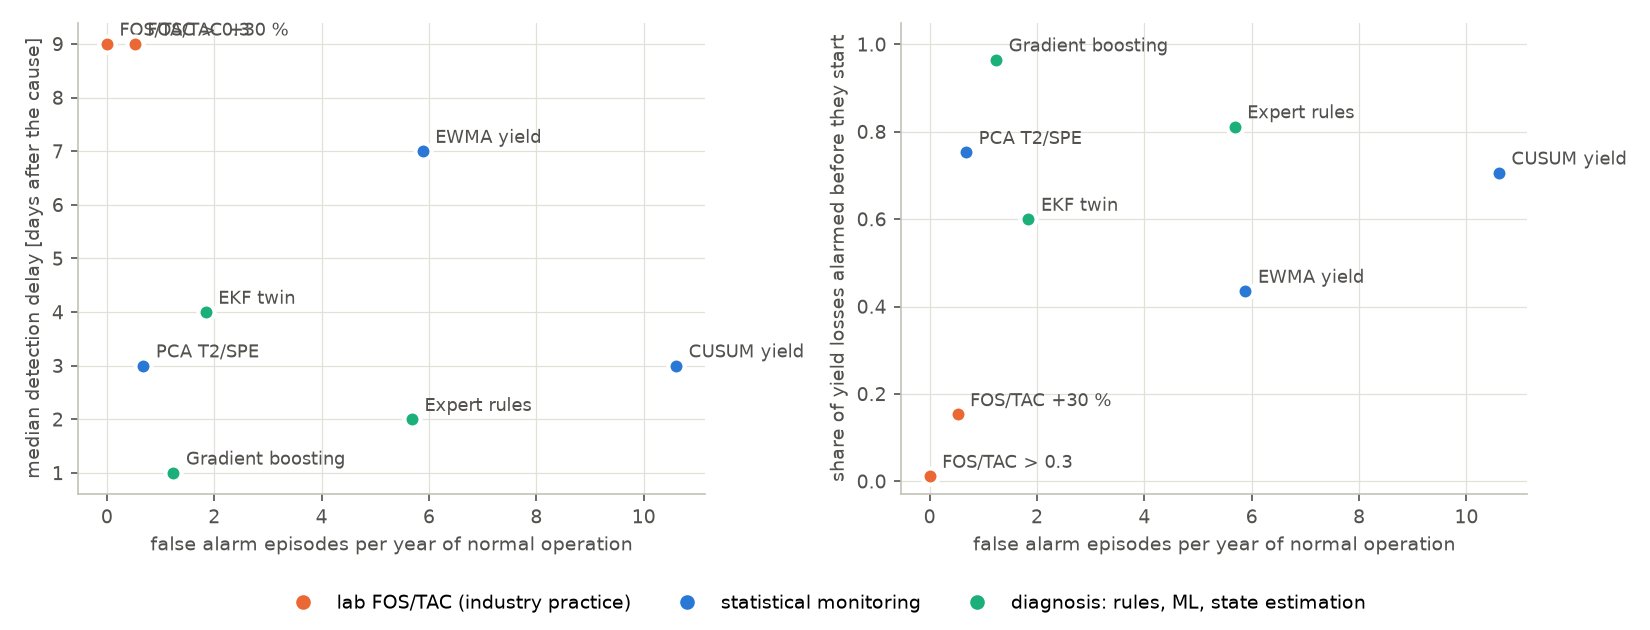
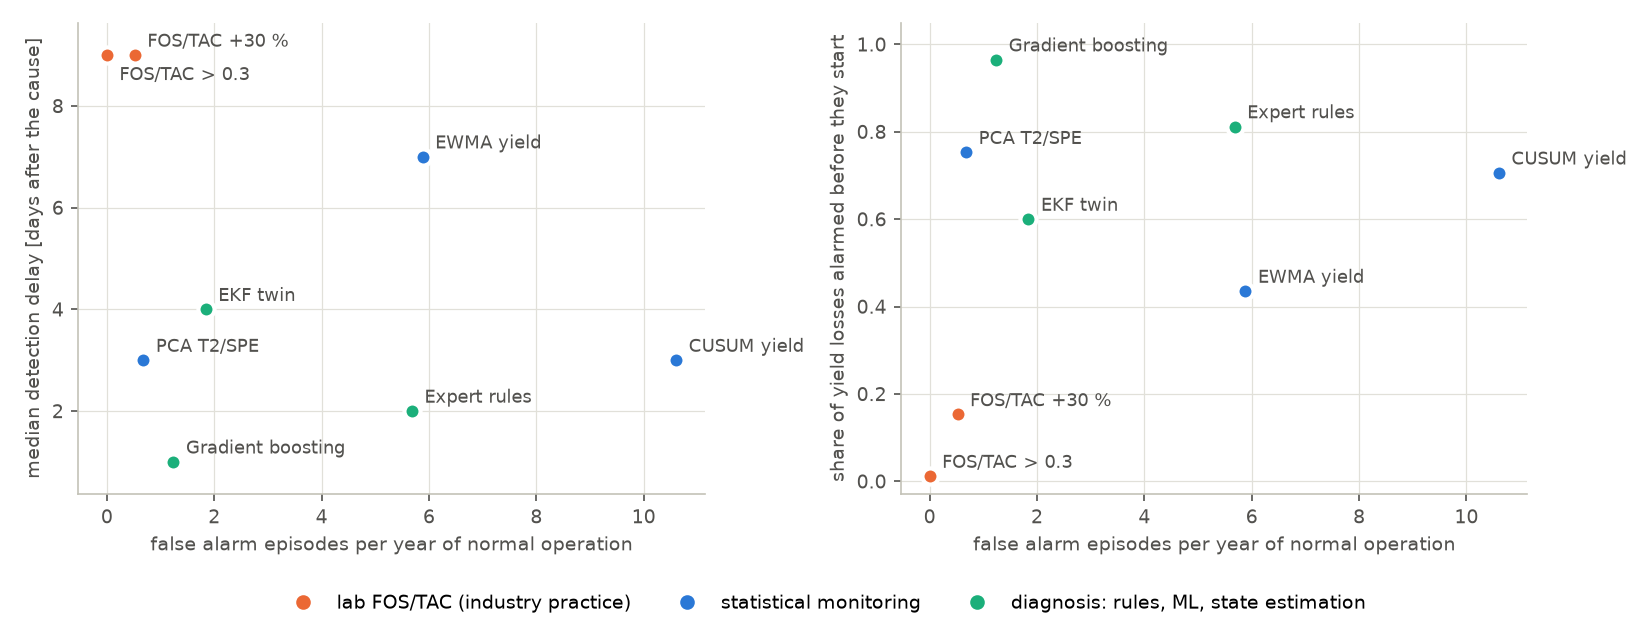
Charts: separate the FOS/TAC labels, readable class names in the matrices
The two lab FOS/TAC rules sit at the same height next to each other; their labels now go to different sides of the points (README figure and both dashboard scatter plots). Confusion matrix: vertical class names; per-class heatmap: vertical names on a phone. Layout only; data unchanged.

diff --git a/docs/index.html b/docs/index.html
@@ -272,18 +272,21 @@ function comparison() {
       cols.map(([k, , f]) => `<td class="n${r[k] != null && r[k] === best[k] ? " best" : ""}">${f(r[k])}</td>`).join("") + "</tr>";
   });
   document.getElementById("mc-table").innerHTML = h;
-  const pts = (yk, title, ylab, yfmt) => {
+  // the two lab FOS/TAC rules sit next to each other near x = 0: their labels go to the right, apart in height
+  const pts = (yk, title, ylab, yfmt, pos = {}) => {
     const T = D.methods.map(m => { const r = R.find(x => x.method === m);
-      return {x: [r.false_alarms_per_year], y: [r[yk]], mode: "markers+text", text: [m], textposition: "top center",
+      return {x: [r.false_alarms_per_year], y: [r[yk]], mode: "markers+text", text: [m], textposition: pos[m] || "top center",
         textfont: {size: 10, color: css("--ink2")}, marker: {size: 11, color: famColor(m), line: {color: css("--surface"), width: 2}},
         hovertemplate: m + "<br>%{x:.1f} false alarms/year<br>" + ylab + ": %{y" + yfmt + "}<extra></extra>", showlegend: false}; });
     return [T, layoutBase({margin: {l: 56, r: 16, t: 30, b: 50}, title: {text: title, font: {size: 13, color: css("--ink")}, x: 0.02},
       xaxis: axis({title: {text: "false alarms per year", font: {size: 12}}, rangemode: "tozero"}),
       yaxis: axis({title: {text: ylab, font: {size: 12}}})})];
   };
-  Plotly.react("mc-plot", ...pts("median_delay_d", "Faster (low) vs fewer false alarms (left)", "median delay [days]", ":.0f"), CFG());
-  const [T2, L2] = pts("before_yield_loss", "Alarmed before yield loss (high)", "share before yield loss", ":.0%");
-  L2.yaxis.tickformat = ".0%"; L2.yaxis.range = [-0.05, 1.08];
+  Plotly.react("mc-plot", ...pts("median_delay_d", "Faster (low) vs fewer false alarms (left)", "median delay [days]", ":.0f",
+    {"FOS/TAC > 0.3": "bottom right", "FOS/TAC +30 %": "top right"}), CFG());
+  const [T2, L2] = pts("before_yield_loss", "Alarmed before yield loss (high)", "share before yield loss", ":.0%",
+    {"FOS/TAC > 0.3": "bottom right", "FOS/TAC +30 %": "top right"});
+  L2.yaxis.tickformat = ".0%"; L2.yaxis.range = [-0.12, 1.08];
   Plotly.react("mc-plot2", T2, L2, CFG());
 }
 
@@ -301,8 +304,9 @@ function byClass() {
     colorscale: lowGood ? [[0, css("--seq1")], [1, css("--seq0")]] : [[0, css("--seq0")], [1, css("--seq1")]],
     showscale: false, xgap: 2, ygap: 2, hovertemplate: "%{y} / %{x}: %{text}<extra></extra>",
     zmin: metric === "lead" ? -20 : 0, zmax: metric === "lead" ? 20 : (metric === "delay" ? 30 : 100)}];
-  Plotly.react("bc-plot", T, layoutBase({margin: {l: 130, r: 10, t: 10, b: 110},
-    xaxis: {tickangle: -30, tickfont: {size: 11}}, yaxis: {autorange: "reversed", tickfont: {size: 11}},
+  const narrow = window.innerWidth < 600;  // on a phone the angled class names ran into each other
+  Plotly.react("bc-plot", T, layoutBase({margin: {l: 130, r: 10, t: 10, b: narrow ? 170 : 110},
+    xaxis: {tickangle: narrow ? -90 : -30, tickfont: {size: narrow ? 10 : 11}}, yaxis: {autorange: "reversed", tickfont: {size: 11}},
     font: {family: "system-ui, sans-serif", color: css("--ink2"), size: 11}}), CFG());
   document.getElementById("bc-note").textContent = "20 test upsets per type. Lead time and before-loss only for upsets that went on to lose yield; sensor faults never do.";
 }
@@ -316,7 +320,7 @@ function confusion() {
   Plotly.react("cf-plot", [{type: "heatmap", z: share, x: kinds, y: kinds, text: txt, texttemplate: "%{text}",
     colorscale: [[0, css("--seq0")], [1, css("--seq1")]], showscale: false, xgap: 2, ygap: 2, zmin: 0, zmax: 1,
     hovertemplate: "true %{y}<br>named %{x}: %{text}<extra></extra>"}],
-    layoutBase({margin: {l: 150, r: 10, t: 10, b: 130}, xaxis: {tickangle: -35, tickfont: {size: 10}, title: {text: "named at first alarm", font: {size: 11}}},
+    layoutBase({margin: {l: 150, r: 10, t: 10, b: 170}, xaxis: {tickangle: -90, tickfont: {size: 10}, title: {text: "named at first alarm", font: {size: 11}}},
       yaxis: {autorange: "reversed", tickfont: {size: 10}}}), CFG());
   const U = D.unseen;
   let h = "<tr><th>upset type</th><th class='n'>detected, seen in training</th><th class='n'>detected, unseen</th><th class='n'>median delay unseen [d]</th></tr>";

diff --git a/src/biogas_twin/report.py b/src/biogas_twin/report.py
@@ -82,8 +82,11 @@ def fig_tradeoff(summ: pd.DataFrame) -> None:
         for _, r in summ.iterrows():
             c = COLORS[FAMILY[r["method"]]]
             ax.scatter(r["false_alarms_per_year"], r[ycol], s=60, color=c, edgecolor="white", lw=2, zorder=3)
-            ax.annotate(r["method"], (r["false_alarms_per_year"], r[ycol]), xytext=(6, 4),
+            # the two lab rules can sit at the same height next to each other: one label goes below its point
+            below = r["method"] == "FOS/TAC > 0.3" and ycol == "median_delay_d"
+            ax.annotate(r["method"], (r["false_alarms_per_year"], r[ycol]), xytext=(6, -12 if below else 4),
                         textcoords="offset points", fontsize=8.5, color=INK2)
+        ax.margins(y=0.08)
         ax.set_xlabel("false alarm episodes per year of normal operation", color=INK2, fontsize=9)
         ax.set_ylabel(ylab, color=INK2, fontsize=9)
     axes[1].set_ylim(-0.03, 1.05)
